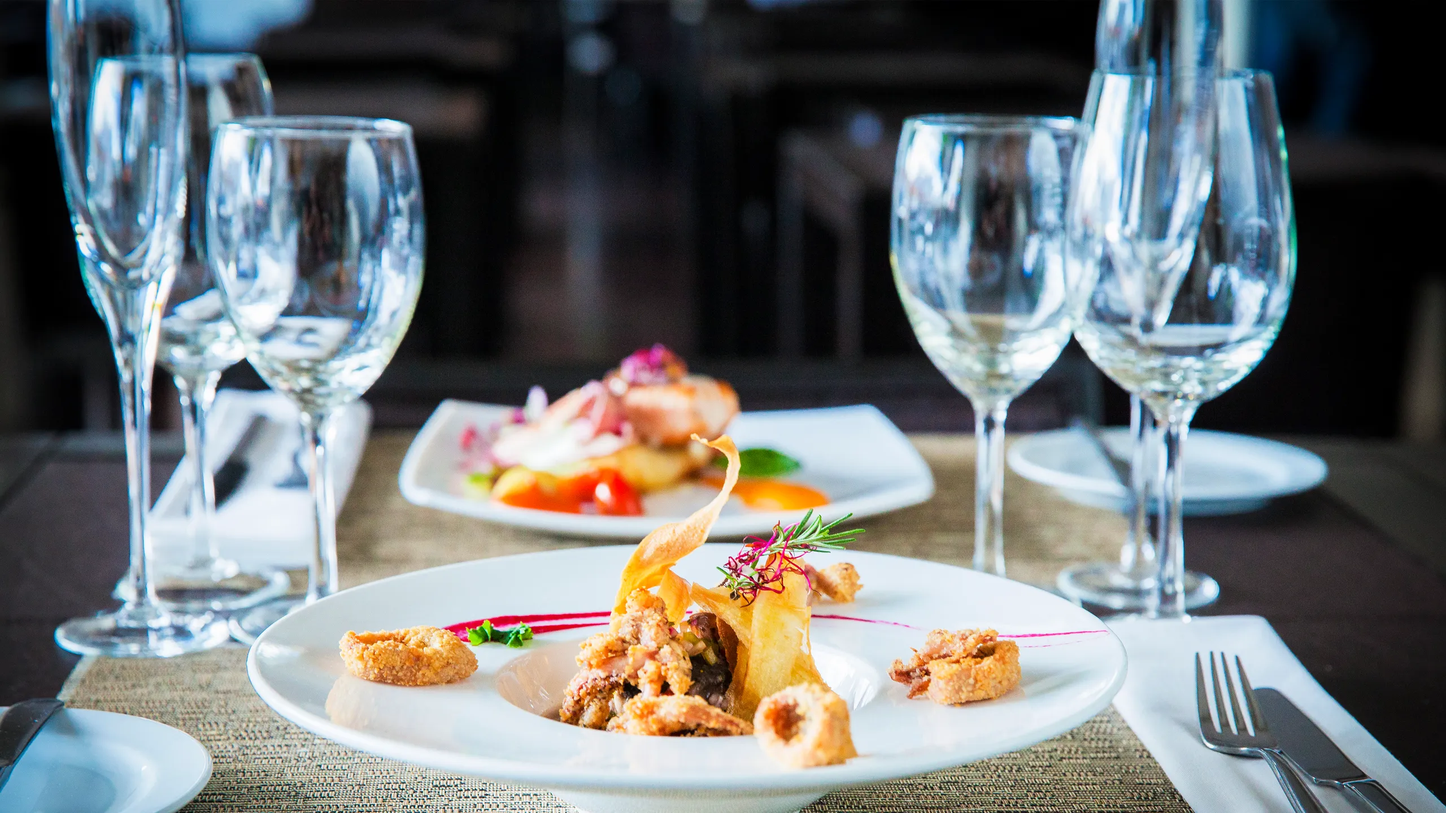
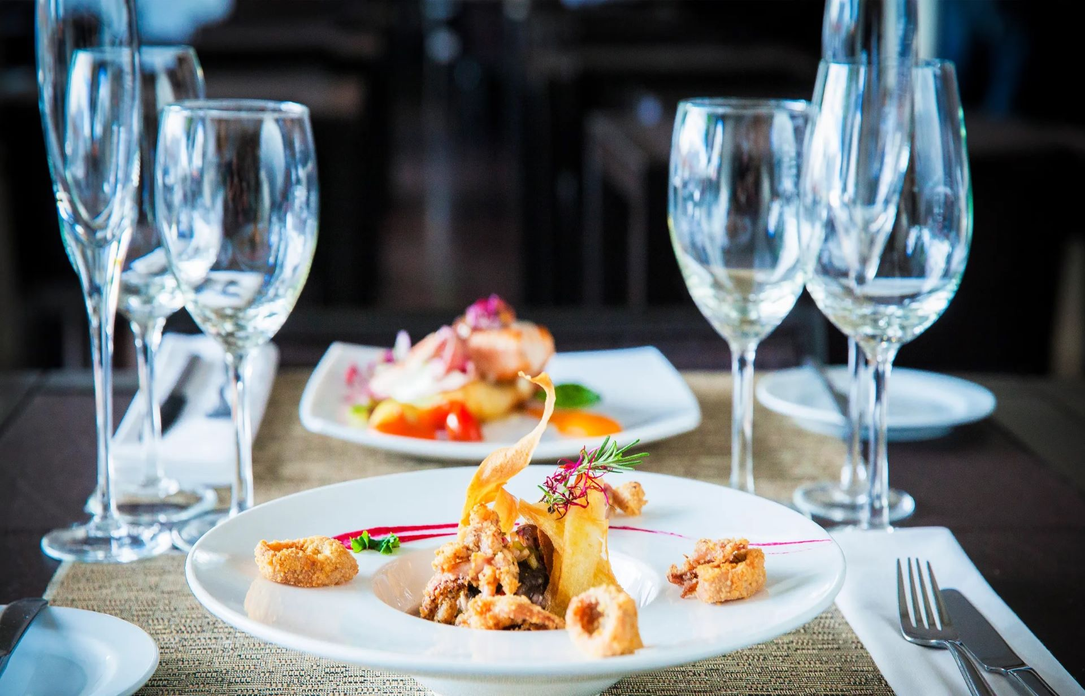
Se corrige tamaño de fotos y responsive index

Changed region(s): [[0.1562, 0.9562, 0.375, 1.0], [0.5, 0.6477, 0.5625, 0.7403]]

diff --git a/View/css/style.css b/View/css/style.css
@@ -51,6 +51,8 @@ button a:visited {
   display: flex;
   flex-direction: column;
   font-family: var(--font-family1);
+  margin:auto;
+  width:100vm;
 }
 
 .welcome-home {
@@ -448,7 +450,25 @@ form .form-buttons .btn:active{
     height: 65vh;
   }
 
+/* index */
+.welcome-home h1 {
+  font-size: 32px;
+ }
 
+ .welcome-home h3 {
+   font-size: 14px;
+   }
+   .local-button {
+    text-align:center;
+    text-transform: uppercase;
+    font-size: 10px;
+
+   }
+   .delivery-button {
+    text-align:center;
+    text-transform: uppercase;
+    font-size: 10px;
+   }
 }
 
 /* MOBILE */
@@ -476,4 +496,15 @@ form .form-buttons .btn:active{
     margin: 1vh !important;
   }
 
+  /*index */
+  body{font-size:0.8em;}
+  sidebar{display:none;}
+  div {
+    width: 100%;
+    height: 1000px;
+    color: black;
+  }
 }
+
+
+
